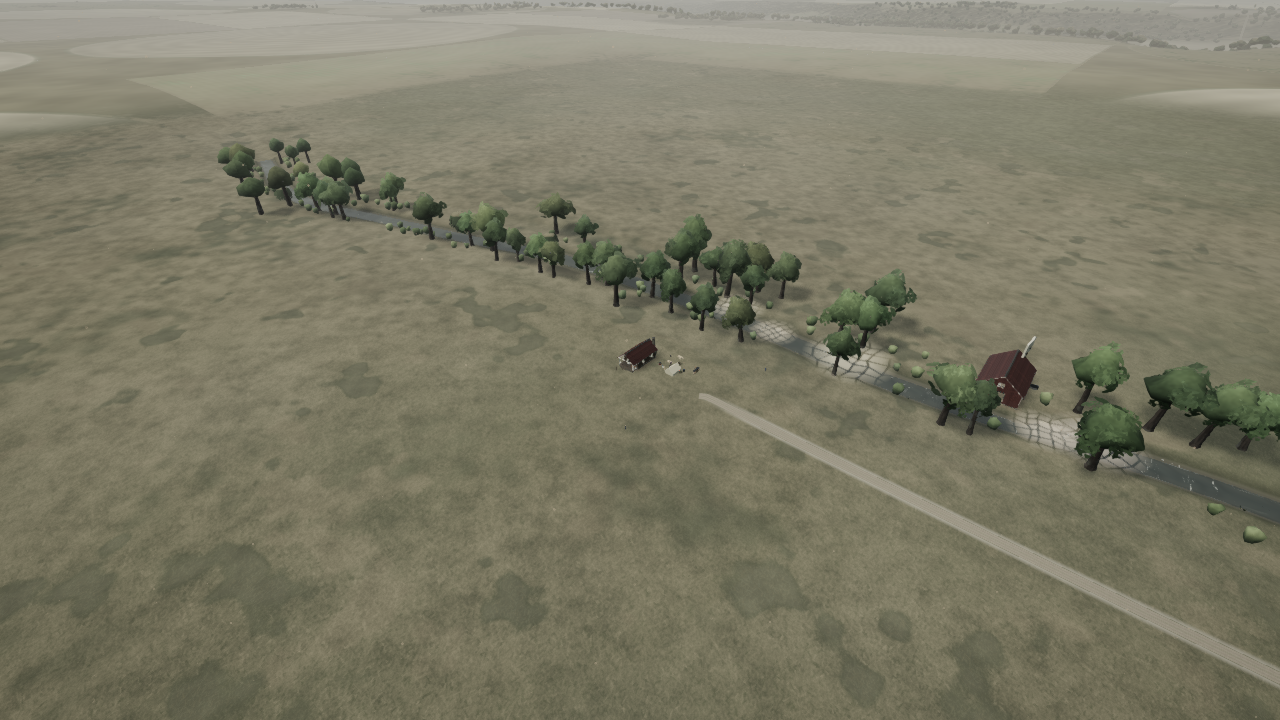
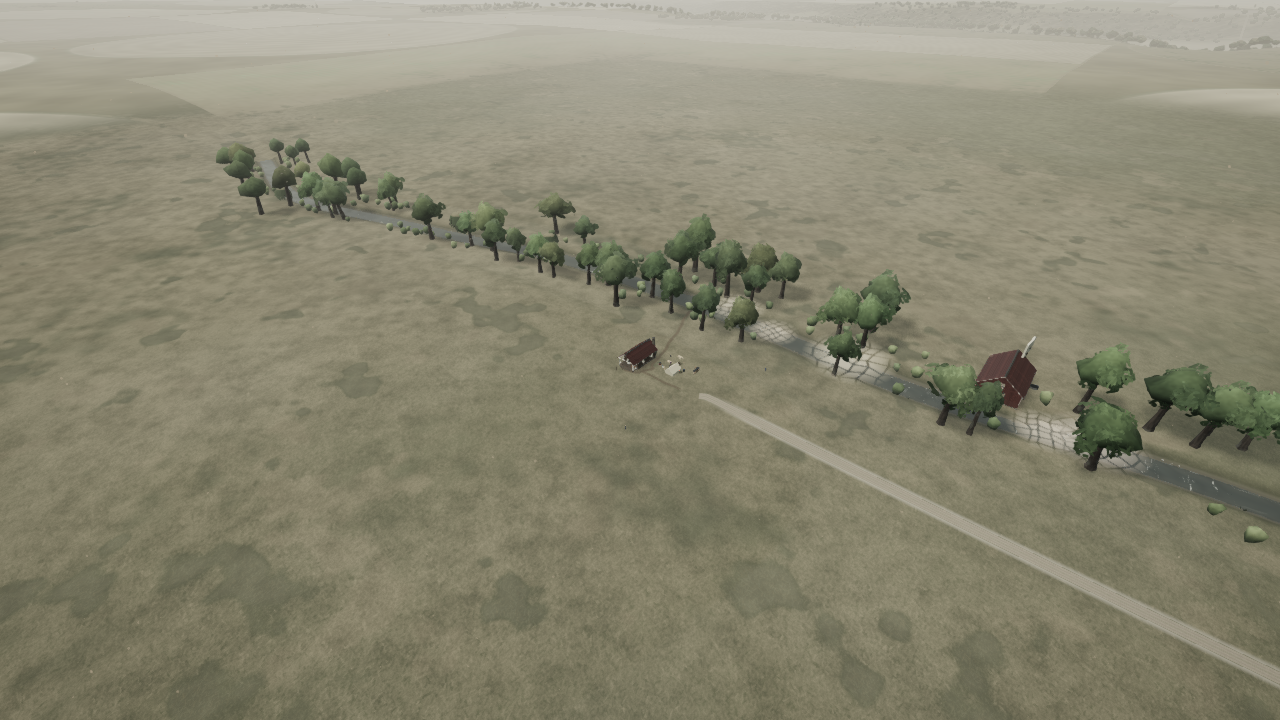
Shell climate also updates on a full-quality frame request

diff --git a/src/game/GameCanvas.tsx b/src/game/GameCanvas.tsx
@@ -608,7 +608,7 @@ export function GameCanvas() {
       climOverlay.scorch = lookRaw.scorch; climOverlay.snow = lookRaw.snowCover; climOverlay.freeze = lookRaw.freeze;
       world.tick(dt, dayOfYear, totalDays, seasonMode, climOverlay, waterLockOf(lookRaw.freeze));
       shellAcc += dt;
-      if (shellAcc >= 0.4) {
+      if (shellAcc >= 0.4 || renderReq.quality) {
         shellAcc = 0;
         const d0 = domeOf(game), st0 = d0 ? stateOf(game, d0) : null;
         setShellClimate(st0 ? shellFrostOf(st0.outF, st0.indoorF) : 0, st0 ? shellBleachOf(lookRaw.scorch, st0.outF) : 0);
